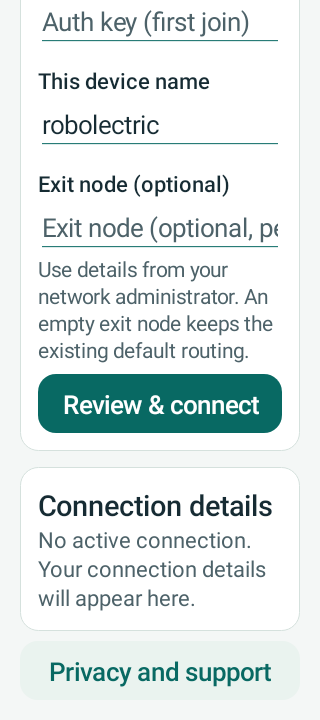
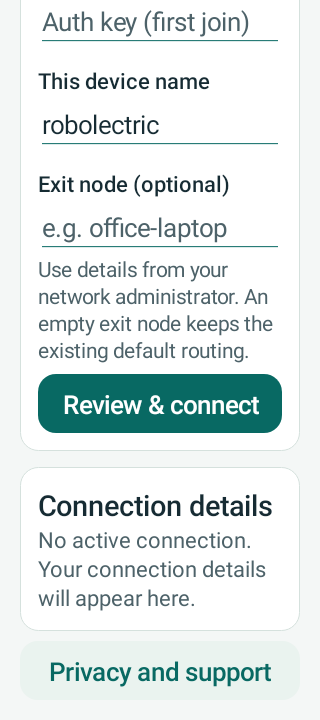
ui(android): unify viewer states controls and chat with fixed exit action

Changed region(s): [[0.125, 0.3056, 0.7812, 0.3361], [0.8125, 0.3056, 0.875, 0.3361]]

diff --git a/android/app/src/main/java/au/fintex/mnet/ViewerActivity.java b/android/app/src/main/java/au/fintex/mnet/ViewerActivity.java
@@ -24,7 +24,8 @@ public class ViewerActivity extends Activity {
     private ImageView screen;
     private TextView chat;
     private EditText chatIn;
-    private TextView controlStatus;
+    private TextView controlStatus, sessionStatus, emptyScreen;
+    private Button sendChat;
     private Button controlRequest;
     private Button endViewing;
     private mobile.SessionConnect pendingConnect;
@@ -43,30 +44,42 @@ public class ViewerActivity extends Activity {
             return;
         }
 
-        LinearLayout root = new LinearLayout(this);
-        root.setOrientation(LinearLayout.VERTICAL);
+        LinearLayout footer = AppUi.column(this);
+        LinearLayout root = AppUi.screen(this, footer);
+        AppUi.text(root, "Screen session", 26, AppUi.INK, true);
+        TextView peer = AppUi.text(root, peerIp, 14, AppUi.MUTED, false);
+        peer.setMaxLines(1);
+        peer.setEllipsize(android.text.TextUtils.TruncateAt.MIDDLE);
+        AppUi.gap(root, 8);
+        sessionStatus = AppUi.text(root, "Connecting...", 16, AppUi.ACCENT, true);
+        sessionStatus.setAccessibilityLiveRegion(android.view.View.ACCESSIBILITY_LIVE_REGION_POLITE);
+        AppUi.gap(root, 16);
 
-        endViewing=new Button(this);
-        endViewing.setText("End viewing");
-        endViewing.setMinHeight((int)(48*getResources().getDisplayMetrics().density));
-        endViewing.setOnClickListener(v->{stopViewing();finish();});
-        root.addView(endViewing);
-
+        android.widget.FrameLayout picture = new android.widget.FrameLayout(this);
+        picture.setBackground(AppUi.shape(this, android.graphics.Color.rgb(22,43,51), 0));
+        picture.setClipToOutline(true);
+        int screenHeight = getResources().getConfiguration().screenHeightDp;
+        int pictureHeight = AppUi.dp(this, Math.max(200, Math.min(480, Math.round(screenHeight * .52f))));
+        root.addView(picture, new LinearLayout.LayoutParams(-1, pictureHeight));
         screen = new ImageView(this);
         screen.setScaleType(ImageView.ScaleType.FIT_CENTER);
-        LinearLayout.LayoutParams sp = new LinearLayout.LayoutParams(
-                ViewGroup.LayoutParams.MATCH_PARENT, 0, 1f);
-        root.addView(screen, sp);
+        screen.setContentDescription("Remote screen. Input requires the host's separate approval.");
+        picture.addView(screen, new android.widget.FrameLayout.LayoutParams(-1,-1));
+        emptyScreen = new TextView(this);
+        emptyScreen.setText("Waiting for a screen\nThe host may need to approve viewing.");
+        emptyScreen.setTextColor(android.graphics.Color.WHITE);
+        emptyScreen.setTextSize(16);
+        emptyScreen.setGravity(android.view.Gravity.CENTER);
+        int inset=AppUi.dp(this,24);emptyScreen.setPadding(inset,inset,inset,inset);
+        picture.addView(emptyScreen,new android.widget.FrameLayout.LayoutParams(-1,-1));
+        AppUi.gap(root, 16);
 
-        controlStatus=new TextView(this);
-        controlStatus.setTextSize(14);
-        controlStatus.setPadding(16,8,16,8);
-        controlStatus.setText("View only. Control is unavailable until a compatible host responds.");
-        root.addView(controlStatus);
-        controlRequest=new Button(this);
-        controlRequest.setText("Request control");
+        LinearLayout controls = AppUi.card(root);
+        AppUi.text(controls, "Remote control", 20, AppUi.INK, true);
+        controlStatus = AppUi.text(controls, "View only. Control is unavailable until a compatible host responds.", 14, AppUi.MUTED, false);
+        controlStatus.setAccessibilityLiveRegion(android.view.View.ACCESSIBILITY_LIVE_REGION_POLITE);
+        controlRequest = AppUi.button(controls, "Request control", false);
         controlRequest.setEnabled(false);
-        controlRequest.setMinHeight((int)(48*getResources().getDisplayMetrics().density));
         controlRequest.setOnClickListener(v->{
             SessionViewer viewer=viewers.current();if(viewer==null)return;
             boolean cancel=controlPending;
@@ -76,39 +89,45 @@ public class ViewerActivity extends Activity {
                 catch(Exception unavailable){reconnects.post(()->{if(viewers.current()==viewer)applyControl("unavailable");});}
             },"session-control").start();
         });
-        root.addView(controlRequest);
+        AppUi.gap(root, 16);
 
-        chat = new TextView(this);
-        chat.setTypeface(android.graphics.Typeface.MONOSPACE);
-        chat.setTextSize(11);
-        chat.setMaxLines(4);
-        root.addView(chat);
-
-        LinearLayout bar = new LinearLayout(this);
-        bar.setOrientation(LinearLayout.HORIZONTAL);
+        LinearLayout messages = AppUi.card(root);
+        Button chatToggle = AppUi.button(messages, "Open session chat", false);
+        LinearLayout chatPanel = AppUi.column(this);
+        messages.addView(chatPanel, new LinearLayout.LayoutParams(-1,-2));
+        chatPanel.setVisibility(android.view.View.GONE);
+        chatToggle.setOnClickListener(v -> {
+            boolean open = chatPanel.getVisibility() != android.view.View.VISIBLE;
+            chatPanel.setVisibility(open ? android.view.View.VISIBLE : android.view.View.GONE);
+            chatToggle.setText(open ? "Hide session chat" : "Open session chat");
+        });
+        AppUi.gap(chatPanel, 12);
+        chat = AppUi.text(chatPanel, "", 14, AppUi.MUTED, false);
+        chat.setMaxLines(6);
+        chat.setTextIsSelectable(true);
+        chat.setMovementMethod(new android.text.method.ScrollingMovementMethod());
         chatIn = new EditText(this);
-        LinearLayout.LayoutParams ep = new LinearLayout.LayoutParams(0,
-                ViewGroup.LayoutParams.WRAP_CONTENT, 1f);
-        bar.addView(chatIn, ep);
-        Button send = new Button(this);
-        send.setText("Send");
-        send.setOnClickListener(v -> {
+        chatIn.setHint("Message the other device");
+        chatIn.setTextSize(16);chatIn.setTextColor(AppUi.INK);chatIn.setHintTextColor(AppUi.MUTED);
+        chatIn.setMinHeight(AppUi.dp(this,52));
+        chatIn.setMaxLines(4);
+        chatIn.setInputType(android.text.InputType.TYPE_CLASS_TEXT | android.text.InputType.TYPE_TEXT_FLAG_CAP_SENTENCES | android.text.InputType.TYPE_TEXT_FLAG_MULTI_LINE);
+        chatPanel.addView(chatIn, new LinearLayout.LayoutParams(-1,-2));
+        sendChat = AppUi.button(chatPanel, "Send message", false);
+        sendChat.setEnabled(false);
+        sendChat.setOnClickListener(v -> {
             String t = chatIn.getText().toString().trim();
             SessionViewer viewer = viewers.current();
             if (!t.isEmpty() && viewer != null) {
                 new Thread(() -> {
-                    try {
-                        viewer.sendChat(t);
-                    } catch (Exception ignored) {
-                    }
+                    try { viewer.sendChat(t); }
+                    catch (Exception ignored) { }
                 }).start();
                 chatIn.setText("");
             }
         });
-        bar.addView(send);
-        root.addView(bar);
-        ContentInsets.install(root);
-        setContentView(root);
+        endViewing = AppUi.button(footer, "End viewing", false);
+        endViewing.setOnClickListener(v->{stopViewing();finish();});
 
         screen.setOnTouchListener((v, ev) -> {
             SessionViewer viewer = viewers.current();
@@ -179,6 +198,9 @@ public class ViewerActivity extends Activity {
         if (userClosed || isFinishing()) return;
         ViewerGate.Ticket attempt = viewers.begin();
         if (attempt == null) return;
+        sessionStatus.setText("Connecting...");
+        emptyScreen.setVisibility(android.view.View.VISIBLE);
+        emptyScreen.setText("Waiting for a screen\nThe host may need to approve viewing.");
         Node node=MnetVpnService.currentNode();
         if(node==null){failed(attempt,"connect the mesh first");return;}
         final mobile.SessionConnect connecting;
@@ -200,6 +222,8 @@ public class ViewerActivity extends Activity {
                         return;
                     }
                     retryMs = 1000;
+                    sessionStatus.setText(frameW > 0 ? "Viewing screen" : "Connected. Waiting for screen...");
+                    sendChat.setEnabled(true);
                     try{applyControl(new JSONObject(connected.controlStatus()).optString("state"));}
                     catch(Exception unavailable){applyControl("unavailable");}
                     appendChat("connected to " + peerIp);
@@ -217,6 +241,10 @@ public class ViewerActivity extends Activity {
         applyControl("unavailable");
         frameW = frameH = 0;
         screen.setImageDrawable(null);
+        sendChat.setEnabled(false);
+        sessionStatus.setText(message.equals("connect the mesh first") ? "Network connection needed" : "Connection interrupted");
+        emptyScreen.setText(message.equals("connect the mesh first") ? "Connect Mnet to your network first.\nEnd viewing to return to setup." : "No screen to display.\nCheck that the host is ready to share.");
+        emptyScreen.setVisibility(android.view.View.VISIBLE);
         closeViewer(viewers.end(attempt));
         appendChat(message);
         scheduleReconnect();
@@ -243,6 +271,8 @@ public class ViewerActivity extends Activity {
                     frameW = bmp.getWidth();
                     frameH = bmp.getHeight();
                     screen.setImageBitmap(bmp);
+                    emptyScreen.setVisibility(android.view.View.GONE);
+                    sessionStatus.setText("Viewing screen");
                 });
             }
             @Override
@@ -304,6 +334,9 @@ public class ViewerActivity extends Activity {
         if(screen!=null)screen.setImageDrawable(null);
         if(controlRequest!=null)applyControl("unavailable");
         if(endViewing!=null)endViewing.setEnabled(false);
+        if(sendChat!=null)sendChat.setEnabled(false);
+        if(sessionStatus!=null)sessionStatus.setText("Viewing ended");
+        if(emptyScreen!=null){emptyScreen.setVisibility(android.view.View.VISIBLE);emptyScreen.setText("Viewing ended");}
     }
 
     @Override

diff --git a/android/framework-tests/layout-tests/au/fintex/mnet/LayoutRenderTest.java b/android/framework-tests/layout-tests/au/fintex/mnet/LayoutRenderTest.java
@@ -131,4 +131,64 @@ public class LayoutRenderTest {
             assertTrue("bottom clipped",scroll.getChildAt(0).getHeight()-scroll.getScrollY()<=scroll.getHeight());
         }
     }
+    private static Button findButton(View root,String label){
+        if(root instanceof Button && ((Button)root).getText().toString().equals(label))return (Button)root;
+        if(root instanceof ViewGroup){ViewGroup group=(ViewGroup)root;for(int i=0;i<group.getChildCount();i++){Button button=findButton(group.getChildAt(i),label);if(button!=null)return button;}}
+        return null;
+    }
+    private void viewer(String prefix,int width,int height,float scale)throws Exception {
+        var resources=RuntimeEnvironment.getApplication().getResources();var config=resources.getConfiguration();config.fontScale=scale;resources.updateConfiguration(config,null);
+        java.util.concurrent.atomic.AtomicReference<mobile.ViewerCallbacks> frames=new java.util.concurrent.atomic.AtomicReference<>();
+        mobile.SessionViewer viewer=new mobile.SessionViewer();
+        MnetVpnService.node=new mobile.Node(){@Override public mobile.SessionViewer connectSessionWithControl(String peer,mobile.ViewerCallbacks callback,mobile.ControlCallbacks control){frames.set(callback);return viewer;}};
+        try(var c=Robolectric.buildActivity(ViewerActivity.class,new Intent().putExtra("peer_ip","100.64.0.3")).setup()){
+            ViewerActivity a=c.get();
+            @SuppressWarnings("unchecked") ViewerGate<mobile.SessionViewer> gate=(ViewerGate<mobile.SessionViewer>)field(a,"viewers");
+            long deadline=System.nanoTime()+java.util.concurrent.TimeUnit.SECONDS.toNanos(5);
+            while(gate.current()==null&&System.nanoTime()<deadline){Shadows.shadowOf(android.os.Looper.getMainLooper()).idle();Thread.sleep(1);}
+            assertSame(viewer,gate.current());
+            capture(a,prefix+"-viewer-waiting",width,height);
+            Bitmap bitmap=Bitmap.createBitmap(600,900,Bitmap.Config.ARGB_8888);Canvas canvas=new Canvas(bitmap);
+            canvas.drawColor(android.graphics.Color.rgb(224,234,230));
+            android.graphics.Paint paint=new android.graphics.Paint(android.graphics.Paint.ANTI_ALIAS_FLAG);paint.setColor(AppUi.INK);paint.setTextSize(36);
+            canvas.drawText("LAYOUT TEST FRAME",65,360,paint);paint.setTextSize(28);canvas.drawText("Not a remote device",65,420,paint);
+            java.io.ByteArrayOutputStream encoded=new java.io.ByteArrayOutputStream();bitmap.compress(Bitmap.CompressFormat.JPEG,90,encoded);bitmap.recycle();
+            frames.get().onFrame(encoded.toByteArray());Shadows.shadowOf(android.os.Looper.getMainLooper()).idle();
+            var apply=ViewerActivity.class.getDeclaredMethod("applyControl",String.class);apply.setAccessible(true);
+            ScrollView scroll=(ScrollView)((ViewGroup)root(a)).getChildAt(0);
+            for(String mode:new String[]{"available","pending","allowed","paused","declined","revoked","unavailable"}){
+                apply.invoke(a,mode);layout(a,width,height);
+                scroll.scrollTo(0,scroll.getChildAt(0).getHeight());
+                capture(a,prefix+"-viewer-"+mode,width,height);
+                android.graphics.Rect stopBounds=new android.graphics.Rect();View stop=(View)field(a,"endViewing");stop.getDrawingRect(stopBounds);((ViewGroup)root(a)).offsetDescendantRectToMyCoords(stop,stopBounds);
+                assertTrue("End viewing outside viewport",stopBounds.top>=0&&stopBounds.bottom<=height);
+                assertEquals(mode.equals("allowed"),field(a,"controlAllowed"));
+            }
+            Button chatToggle=findButton(root(a),"Open session chat");assertNotNull(chatToggle);chatToggle.performClick();
+            layout(a,width,height);scroll.scrollTo(0,scroll.getChildAt(0).getHeight());
+            capture(a,prefix+"-viewer-chat",width,height);
+            View send=(View)field(a,"sendChat");android.graphics.Rect sendBounds=new android.graphics.Rect();send.getDrawingRect(sendBounds);scroll.offsetDescendantRectToMyCoords(send,sendBounds);
+            assertTrue("chat send clipped",sendBounds.bottom-scroll.getScrollY()<=scroll.getHeight());
+            chatToggle.performClick();layout(a,width,height);
+            scroll.scrollTo(0,0);capture(a,prefix+"-viewer-frame",width,height);
+            frames.get().onClosed();Shadows.shadowOf(android.os.Looper.getMainLooper()).idle();
+            assertFalse((Boolean)field(a,"controlAllowed"));
+            capture(a,prefix+"-viewer-interrupted",width,height);
+            ((Button)field(a,"endViewing")).performClick();assertTrue(viewer.closed);
+            assertTrue(a.isFinishing());
+        }finally{MnetVpnService.node=null;}
+    }
+    @Test public void viewerWithoutNetwork()throws Exception{
+        MnetVpnService.node=null;
+        try(var c=Robolectric.buildActivity(ViewerActivity.class,new Intent().putExtra("peer_ip","100.64.0.3")).setup()){
+            ViewerActivity a=c.get();capture(a,"390-viewer-no-network",390,844);
+            assertEquals("Network connection needed",((TextView)field(a,"sessionStatus")).getText().toString());
+            assertFalse(((Button)field(a,"sendChat")).isEnabled());
+            ((Button)field(a,"endViewing")).performClick();assertTrue(a.isFinishing());
+        }
+    }
+    @Test public void viewerStandard()throws Exception{viewer("390",390,844,1f);}
+    @Test @Config(qualifiers="w320dp-h720dp-mdpi") public void viewerLargeText()throws Exception{viewer("320-large",320,720,1.6f);}
+    @Test @Config(qualifiers="w740dp-h360dp-land-mdpi") public void viewerLandscape()throws Exception{viewer("740-land",740,360,1f);}
+
 }

diff --git a/android/framework-tests/tests/au/fintex/mnet/ViewerActivityTest.java b/android/framework-tests/tests/au/fintex/mnet/ViewerActivityTest.java
@@ -62,6 +62,30 @@ public class ViewerActivityTest {
   assertTrue(viewer.closed);
  }
 
+ @Test public void realNestedRootTapAndScrollDoNotConfuseRemoteInput()throws Exception{
+  mobile.SessionViewer viewer=new mobile.SessionViewer();
+  java.util.concurrent.atomic.AtomicReference<mobile.ViewerCallbacks> callbacks=new java.util.concurrent.atomic.AtomicReference<>();
+  java.util.concurrent.atomic.AtomicReference<mobile.ControlCallbacks> controls=new java.util.concurrent.atomic.AtomicReference<>();
+  MnetVpnService.node=new mobile.Node(){@Override public mobile.SessionViewer connectSessionWithControl(String peer,mobile.ViewerCallbacks cb,mobile.ControlCallbacks control){callbacks.set(cb);controls.set(control);return viewer;}};
+  ActivityController<ViewerActivity> controller=Robolectric.buildActivity(ViewerActivity.class,new Intent().putExtra("peer_ip","100.64.0.2")).setup();
+  try{
+   ViewerActivity activity=controller.get();
+   @SuppressWarnings("unchecked") ViewerGate<mobile.SessionViewer> gate=(ViewerGate<mobile.SessionViewer>)field(activity,"viewers");
+   long deadline=System.nanoTime()+java.util.concurrent.TimeUnit.SECONDS.toNanos(5);
+   while(gate.current()==null&&System.nanoTime()<deadline){Shadows.shadowOf(android.os.Looper.getMainLooper()).idle();Thread.sleep(1);}assertSame(viewer,gate.current());
+   ViewGroup root=(ViewGroup)((ViewGroup)activity.findViewById(android.R.id.content)).getChildAt(0);
+   root.measure(View.MeasureSpec.makeMeasureSpec(390,View.MeasureSpec.EXACTLY),View.MeasureSpec.makeMeasureSpec(640,View.MeasureSpec.EXACTLY));root.layout(0,0,390,640);
+   frame(callbacks.get(),400,400);controls.get().onControl("{\"state\":\"allowed\"}");Shadows.shadowOf(android.os.Looper.getMainLooper()).idle();
+   ImageView screen=(ImageView)field(activity,"screen");android.graphics.Rect bounds=new android.graphics.Rect();screen.getDrawingRect(bounds);root.offsetDescendantRectToMyCoords(screen,bounds);
+   float x=bounds.exactCenterX(),y=bounds.exactCenterY();
+   long now=android.os.SystemClock.uptimeMillis();
+   for(int action:new int[]{MotionEvent.ACTION_DOWN,MotionEvent.ACTION_UP}){MotionEvent event=MotionEvent.obtain(now,now+10,action,x,y,0);root.dispatchTouchEvent(event);event.recycle();}
+   deadline=System.nanoTime()+java.util.concurrent.TimeUnit.SECONDS.toNanos(2);while(viewer.input.size()<1&&System.nanoTime()<deadline)Thread.sleep(1);assertEquals(1,viewer.input.size());
+   for(int i=0;i<4;i++){MotionEvent event=MotionEvent.obtain(now+100,now+100+i*20,new int[]{MotionEvent.ACTION_DOWN,MotionEvent.ACTION_MOVE,MotionEvent.ACTION_MOVE,MotionEvent.ACTION_UP}[i],x,y-new int[]{0,50,150,150}[i],0);root.dispatchTouchEvent(event);event.recycle();}
+   Thread.sleep(50);assertEquals("scroll must not become a remote tap",1,viewer.input.size());
+   assertTrue("whole viewer must actually scroll",((android.widget.ScrollView)root.getChildAt(0)).getScrollY()>0);
+  }finally{controller.pause().stop().destroy();MnetVpnService.node=null;}
+ }
  private static Object field(Object object,String name)throws Exception{java.lang.reflect.Field f=object.getClass().getDeclaredField(name);f.setAccessible(true);return f.get(object);}
  @Test public void visibleStopClosesLateUnpublishedViewerWithoutReconnect()throws Exception{
   java.util.concurrent.CountDownLatch entered=new java.util.concurrent.CountDownLatch(1),release=new java.util.concurrent.CountDownLatch(1);

diff --git a/android/framework-tests/tests/au/fintex/mnet/ControlUiTest.java b/android/framework-tests/tests/au/fintex/mnet/ControlUiTest.java
@@ -59,7 +59,7 @@ public class ControlUiTest {
     assertEquals(mode.equals("pending"),button.getText().toString().equals("Cancel request"));
     assertEquals(mode.equals("available")||mode.equals("pending")||mode.equals("declined")||mode.equals("revoked"),button.isEnabled());
     assertFalse(status.getText().toString().isEmpty());
-    for(int width:new int[]{320,390}){render(root,"viewer-"+mode,width);assertTrue(button.getHeight()>=48);assertTrue(status.getBottom()<=button.getTop());assertTrue(button.getRight()<=width);assertTrue(end.getHeight()>=48);assertTrue(end.getTop()>=0);assertTrue(end.getBottom()<=((View)field(activity,"screen")).getTop());}
+    for(int width:new int[]{320,390}){render(root,"viewer-"+mode,width);assertTrue(button.getHeight()>=48);assertTrue(status.getBottom()<=button.getTop());assertTrue(button.getRight()<=width);assertTrue(end.getHeight()>=48);assertTrue(end.getTop()>=0);android.graphics.Rect endRect=new android.graphics.Rect();end.getDrawingRect(endRect);((ViewGroup)root).offsetDescendantRectToMyCoords(end,endRect);assertTrue(endRect.bottom<=root.getHeight());assertTrue(endRect.top>=((ViewGroup)root).getChildAt(0).getBottom());}
    }
    state(activity,"available");button.performClick();
    until=System.nanoTime()+java.util.concurrent.TimeUnit.SECONDS.toNanos(2);while(viewer.requests==0&&System.nanoTime()<until){idle();Thread.sleep(1);}assertEquals(1,viewer.requests);

diff --git a/docs/android-ui-layouts.md b/docs/android-ui-layouts.md
@@ -1,4 +1,4 @@
-# Android home, setup and sharing layout checkpoint
+# Android screen layout checkpoints
 
 19 November 2026. Implemented application screens, not a separate web mockup.
 
@@ -10,6 +10,14 @@ On an empty form, the primary action reveals the actual settings and a required-
 
 The sharing screen separates viewing from optional remote control and Accessibility. The existing view-only auto-accept option remains off by default and applies to the next hosting start only. Existing exact-request consent and control decisions are unchanged. Start/Stop availability follows service-owned running state. An app-local state notification asks the UI to re-read that state; log messages do not establish whether sharing is active. Stop hosting stays in a fixed footer while the rest scrolls.
 
+## Viewer follow-up
+
+The actual viewer now uses the same native screen/card/button styling. It has explicit connecting, waiting-for-screen, viewing, interrupted and missing-network states, a dark image canvas, an optional expandable chat section and a fixed End viewing footer. Control-request/cancel/allowed/paused/declined/revoked/unavailable states still come through the existing session/control gate. The host remains the control authority; a new appearance does not grant input.
+
+The image canvas retains FIT_CENTER mapping and frame-readiness/gesture gating. A framework regression dispatches a completed tap and a multi-move scroll through the actual nested root: the tap sends one fake remote click, scrolling moves the local viewport without becoming remote input. Existing resize/cancel/revocation/late-publication tests remain passing. The first new scroll fixture contained only one move, which initiated parent interception but did not produce a subsequent drag delta; a realistic multi-move sequence passes. That failed fixture is not a passing scroll result.
+
+The exit-node hint is shortened to an example; its persistent label keeps the meaning. No exit-node policy changes.
+
 ## Inspected pixels
 
 These are native Android View rasterizations on Robolectric API33 using actual production Activity/helper source and aapt2-packaged application resources. Go, VPN, Accessibility and service/peer state are isolated test doubles or explicit fixture state. The capture draws the actual scroll content at its measured viewport offset and the actual fixed footer. It does not draw Android system bars, a physical display or a real remote screen.
@@ -20,6 +28,15 @@ These are native Android View rasterizations on Robolectric API33 using actual p
 - [Setup bottom,320x720,160% text](ui/android/320-large-settings-bottom.png)
 - [Sharing bottom,320x720,160% text](ui/android/320-large-host-bottom.png)
 - [Error details,740x360 landscape](ui/android/740-land-error-details.png)
+- [Viewer waiting for a screen](ui/android/390-viewer-waiting.png)
+- [Viewer pending control](ui/android/390-viewer-pending.png)
+- [Viewer allowed control](ui/android/390-viewer-allowed.png)
+- [Viewer revoked control,320dp/160% text](ui/android/320-large-viewer-revoked.png)
+- [Viewer chat lower controls,320dp/160% text](ui/android/320-large-viewer-chat.png)
+- [Viewer without a network connection](ui/android/390-viewer-no-network.png)
+- [Viewer paused control,landscape](ui/android/740-land-viewer-paused.png)
+
+Viewer images that contain a picture use an explicitly labelled synthetic test bitmap, not a remote device or captured app. These images do not establish real screen quality, input precision or a working remote session.
 
 Inspected hierarchy, wrapping, field labels, active/disabled states, lower controls and footer placement. The compact enlarged-text tests measure content larger than its viewport, scroll to its bottom and assert lower controls remain reachable. Single-line inputs retain horizontal editing instead of wrapping secrets/URLs across the form. Insets are covered separately by simulated framework tests; these images are not physical edge-to-edge, keyboard, TalkBack, color-calibration or OS permission acceptance.
 
@@ -33,12 +50,14 @@ sh scripts/test-android-framework.sh
 sh scripts/test-android-framework.sh vpn
 ```
 
-`MVN` may select the Maven executable and `MNET_MAVEN_REPO` its dependency cache. The layout script builds a fresh isolated project with generated app resources, runs five fixtures and emits23PNG views of home/setup/approval/managed/error/hosting states. It creates no APK, installs nothing and does not start a real VPN or contact the example device URL. The functional framework suite continues to use placeholder resources; only the layout suite packages the actual app resources.
+`MVN` may select the Maven executable and `MNET_MAVEN_REPO` its dependency cache. The layout script builds a fresh isolated project with generated app resources, runs nine fixtures and emits57PNG views of home/setup/approval/managed/error/hosting/viewer states. It creates no APK, installs nothing and does not start a real VPN or contact the example device URL. The functional framework suite continues to use placeholder resources; only the layout suite packages the actual app resources.
 
-At this checkpoint, fresh local results are164 selected Activity/service/helper cases,78 VPN-service cases and five layout fixtures, all passing. Full production Java compilation, resource packaging and min-API24 dex compilation also pass against a newly built current-Go four-ABI AAR, without APK signing or installation. Local API/always-on/projection/viewer/control-safety/log checks pass. These are not new emulator, physical-device, JNI, screen capture, control or release results.
+At the viewer checkpoint, fresh local results are168 selected Activity/service/helper cases,78 VPN-service cases and nine layout fixtures, all passing. Full production Java compilation, resource packaging and min-API24 dex compilation also pass against a newly built current-Go four-ABI AAR, without APK signing or installation. Local API/always-on/projection/viewer/control-safety/log checks pass. These are not new emulator, physical-device, JNI, screen capture, control or release results.
 
 Initial fixture setup failures were corrected before recording the passing evidence: invalid resource-qualifier order, a ServiceController used as AutoCloseable, scroll capture/focus ordering, and missing main-loop draining for the peer dialog on-show listener. An attempted application compile first used the checkout's stale AAR, which lacked already-existing control symbols; fresh current-Go bindings fixed the mismatch without an engine change. No failed attempt is counted as acceptance.
 
+Normal general CI now runs the isolated actual-resource layout suite and retains only the synthetic PNG output. Passing render tests establish layout generation and measured geometry, not human visual acceptance. The linked images were inspected separately. The previously closed combined native acceptance workflow remains outside this work and is cancelled when app-path pushes trigger it.
+
 ## Remaining product work
 
-The viewer layout still needs the same screen hierarchy and waiting/error/control treatment. iOS and desktop UI are separate remaining lanes. Manual server/network/key setup is an honest development limitation, not the intended completed Multies journey. Workspace integration stays deferred. Native device acceptance, signing, deployment, publication, retention and other policy decisions remain outside this checkpoint.
+iOS and desktop UI are separate remaining lanes. Manual server/network/key setup is an honest development limitation, not the intended completed Multies journey. Workspace integration stays deferred. Native device acceptance, signing, deployment, publication, retention and other policy decisions remain outside this checkpoint.

diff --git a/docs/STATUS.md b/docs/STATUS.md
@@ -1,10 +1,18 @@
 # Mnet project status
 
-## Current evidence checkpoint (2026-11-19, Australia/Sydney)
+## Current UI work (2026-11-19 morning, Australia/Sydney)
+
+The owner deferred Multies changes and selected Mnet UI/UX/layout work. Multies remains untouched. The actual Android home/setup/sharing checkpoint `5637b9d4c8a65649b9f516d299d62d430255b1b5` has [all-five general CI success](https://github.com/MaisySen/Mnet/actions/runs/44426342827). Its automatically triggered combined native workflow was cancelled, not treated as new acceptance.
+
+The viewer follow-up adds explicit waiting/missing-network/interrupted states, the same native styling, expandable chat and fixed End viewing. Fresh local evidence:168 selected framework cases,78VPN framework cases, nine actual-resource native-raster layout fixtures and full production Java/resource/min-API24 dex compilation. [Inspected images, reproduction and limits](android-ui-layouts.md). Viewer follow-up general CI is collected separately; local checks do not imply it already passed.
+
+These are implemented application screens with simulated Android layout pixels, not a new signed APK, phone screenshot, Play beta, live workspace integration or native-network/control acceptance. Single-line inputs scroll horizontally; lower controls and fixed stop/end actions are covered at320dp/160% text and landscape. iOS/desktop UI and the product gates below remain separate.
+
+## Source-safety evidence from overnight (2026-11-19, Australia/Sydney)
 
 This section supersedes older uses of "latest", "current source" and "pending" below. The rest of this page is a dated history, not an up-to-date release verdict. Source improvements are not changes to the preserved Android binaries or hosted test deployment.
 
-The latest fully collected source checkpoint is `0a35762b803a79de37bcfb5fca82b3bce1c03a49`: [general CI](https://github.com/MaisySen/Mnet/actions/runs/44306472522) has all five jobs successful. The first macOS job never acquired a hosted runner and ran zero steps; its [capacity failure](https://github.com/MaisySen/Mnet/actions/runs/44306472522/job/134809225048) is retained. One same-configuration macOS-only retry [completed successfully](https://github.com/MaisySen/Mnet/actions/runs/44306472522/job/134826268185). The other four results were carried forward, not rerun. [Windows first-attempt evidence](https://github.com/MaisySen/Mnet/actions/runs/44306472522/job/134809224362) remains the Windows source checkpoint.
+The overnight transport/source-safety checkpoint is `0a35762b803a79de37bcfb5fca82b3bce1c03a49`: [general CI](https://github.com/MaisySen/Mnet/actions/runs/44306472522) has all five jobs successful. The first macOS job never acquired a hosted runner and ran zero steps; its [capacity failure](https://github.com/MaisySen/Mnet/actions/runs/44306472522/job/134809225048) is retained. One same-configuration macOS-only retry [completed successfully](https://github.com/MaisySen/Mnet/actions/runs/44306472522/job/134826268185). The other four results were carried forward, not rerun. [Windows first-attempt evidence](https://github.com/MaisySen/Mnet/actions/runs/44306472522/job/134809224362) remains the Windows source checkpoint.
 
 ### Newer implemented and verified source
 

diff --git a/android/framework-tests/README.md b/android/framework-tests/README.md
@@ -2,7 +2,7 @@
 
 ## Current UI layout checkpoint
 
-The November19 home/setup/sharing implementation adds `AppUi` screen furniture, required setup guidance, peer-address validation and service-owned hosting state. Fresh local functional suites pass164 selected cases plus78VPN cases. These suites still do not validate app resources or pixels. A separate [packaged-resource native-raster layout suite](../../docs/android-ui-layouts.md) renders the actual implemented Views/resources and covers compact/enlarged-text scroll reachability and the fixed Stop footer. Its pixels remain simulated Android layout evidence, not phone/emulator/JNI/consent acceptance. Older counts and results below are historical checkpoints.
+The November19 home/setup/sharing implementation adds `AppUi` screen furniture, required setup guidance, peer-address validation and service-owned hosting state. Fresh local functional suites pass168 selected cases plus78VPN cases. These suites still do not validate app resources or pixels. A separate [packaged-resource native-raster layout suite](../../docs/android-ui-layouts.md) renders the actual implemented Views/resources and covers compact/enlarged-text scroll reachability and the fixed Stop/End footers, viewer control states and chat. Its pixels remain simulated Android layout evidence, not phone/emulator/JNI/consent acceptance. Older counts and results below are historical checkpoints.
 
 ## Run
 
